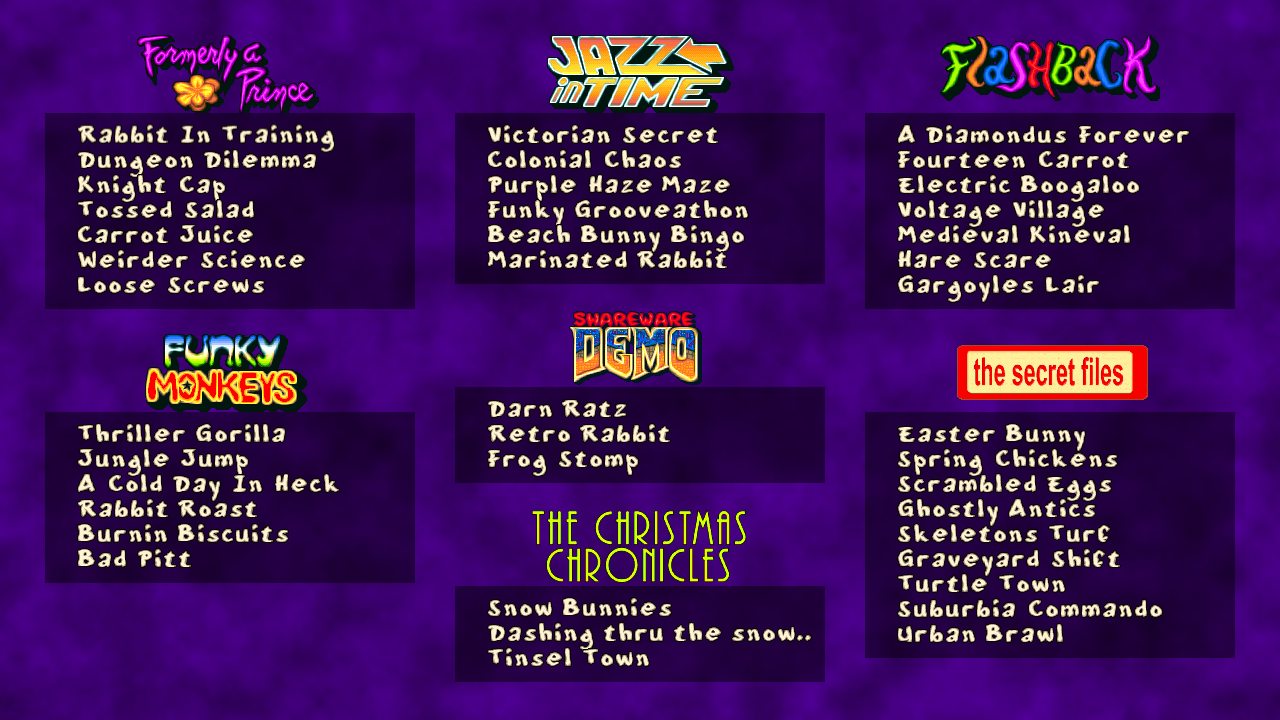
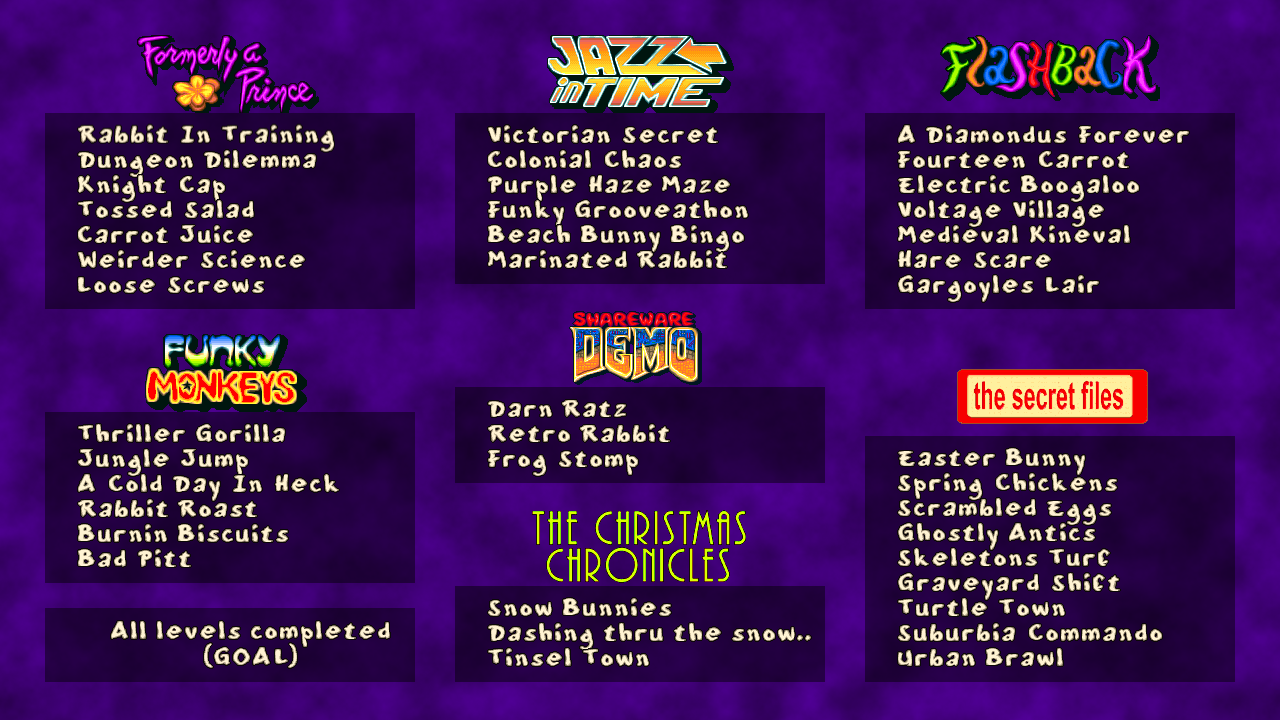
Add goal to overview page

Changed region(s): [[0.6562, 0.4583, 0.9688, 0.9472], [0.0312, 0.825, 0.3438, 0.9472]]

diff --git a/dev/generate_overview.py b/dev/generate_overview.py
@@ -53,9 +53,11 @@ EPISODE_TOPLEFT = [
   (865,  35),
   ( 45, 334),
   (455, 309),
-  (865, 334),
+  (865, 358),
   (455, 508)
 ]
+
+VICTORY_TOPLEFT = (45, 608)
 
 def sort_key_for_location(location):
   name = location['name']
@@ -68,12 +70,12 @@ def sort_key_for_location(location):
     return int(index) + 20 - 1
   elif name.startswith('Bonus Warp'):
     return 90
-  elif name.endswith(' Defeated'):
-    return 98
+  #elif name.endswith(' Defeated'):
+  #  return 98
   elif name == 'Exit':
     return 99
-  else:
-    print(f'no rule matched for {name}')
+  #else:
+  #  print(f'no rule matched for {name}')
     
   return 200
 
@@ -146,6 +148,24 @@ if __name__ == '__main__':
   for item in result['children']:
     if 'level_sort_key' in item:
       del item['level_sort_key']
+
+  result['children'].insert(0, {
+    'name': 'Victory',
+    'access_rules': [ 'all_episodes_complete' ],
+    'sections': [
+      {
+        'name': 'All Levels Completed'
+      }
+    ],
+    'map_locations': [
+      {
+        'map': 'main_map',
+        'x': VICTORY_TOPLEFT[0] + 13 + 18,
+        'y': VICTORY_TOPLEFT[1] + 18 + 18,
+        'size': 36
+      }
+    ]
+  })
 
   target_file = f'generate_overview_result.json'
   if args.out_file is not None:
